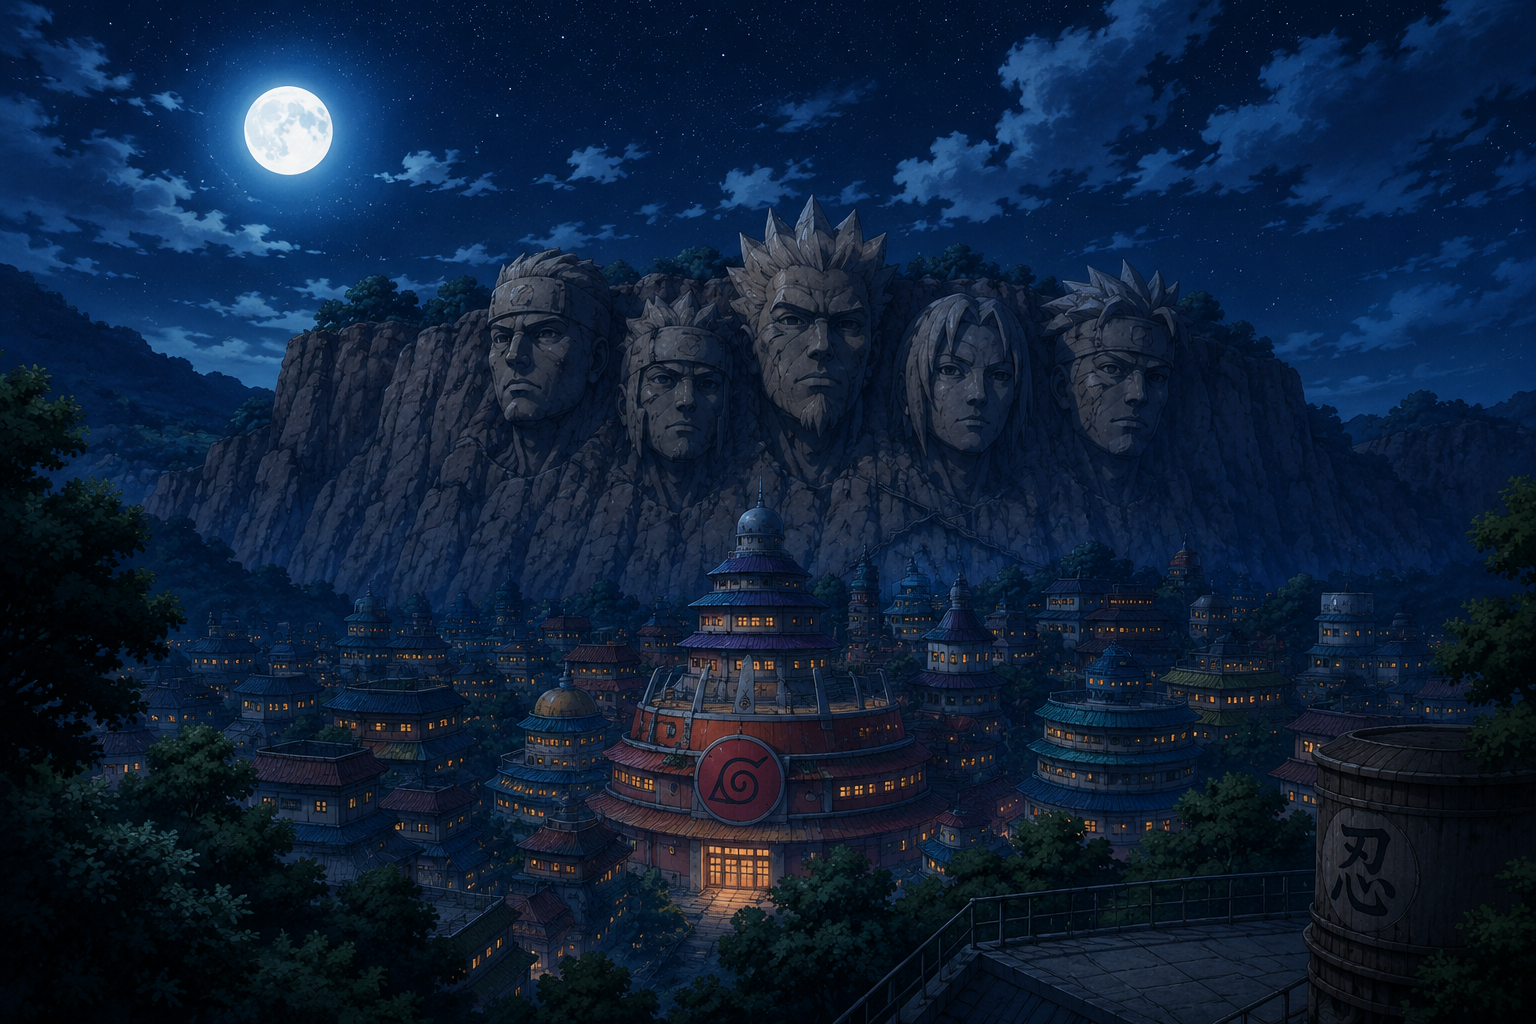
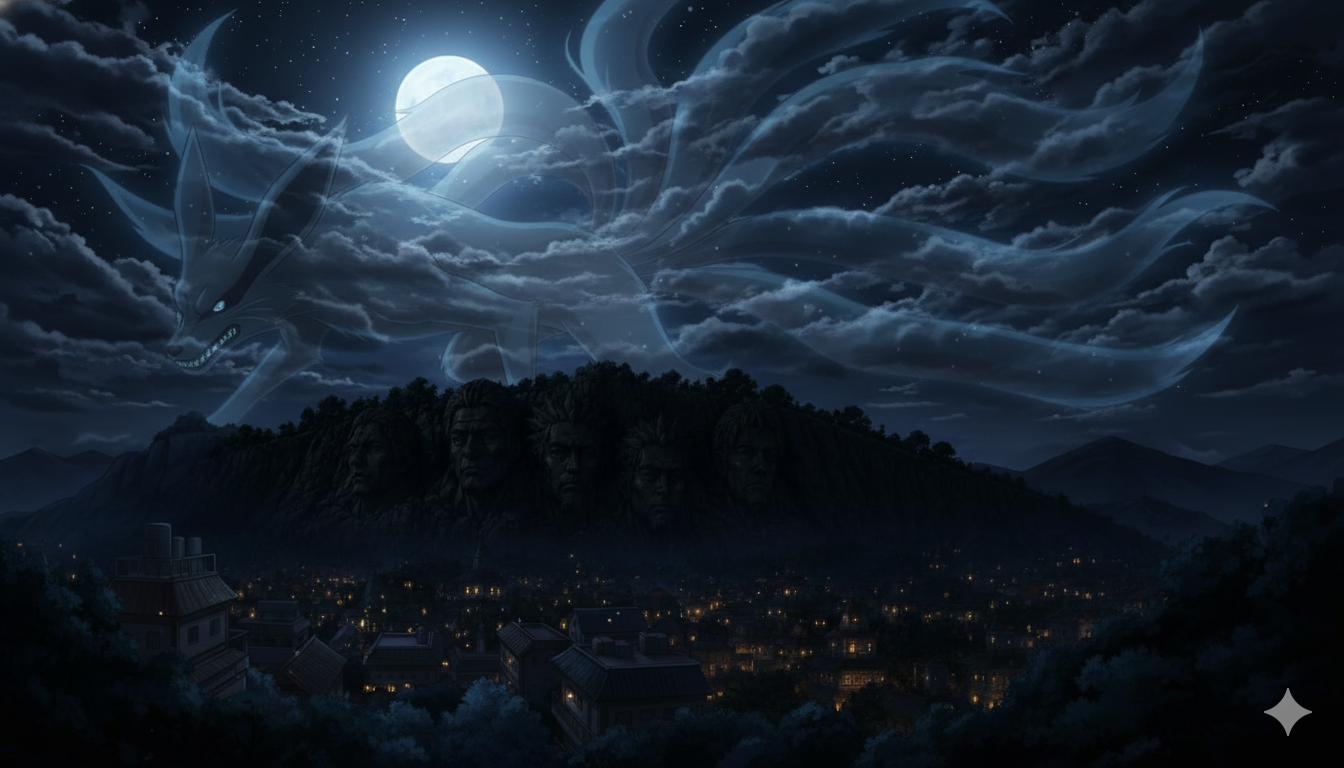
completed level-1 website

diff --git a/PRACTICE CSS HTML/style.css b/PRACTICE CSS HTML/style.css
@@ -1,3 +1,9 @@
+@font-face {
+    font-family: "Naruto Ninja";
+    src: url("./FONTS/NinjaNaruto-YOn4.ttf") format("truetype");
+}
+
+
 *{
     margin: 0;
     padding: 0;
@@ -40,13 +46,20 @@ nav{
 
 .menu a:hover{
     color: orange;
+    
+}
+
+.menu a::after{
+    position: relative;
+    
+
 }
 
 /*  HERO SECTION  */
 
 .hero{
     height: 100vh;
-    background-image: url(canvakonoha2.png);
+    background-image: url(perfect.png);
     background-size: cover;
     background-position: center;
 
@@ -61,17 +74,22 @@ nav{
 }
 
 .uzumaki{
-    color: rgb(121, 119, 119);
-    font-size: 60px;
-}
+    color: rgb(180, 179, 179);
+    font-size: 80px;
+    font-family: "Knewave", sans-serif;
+    padding-left: 80px;
+    }
 
 .hero-content h1{
-    font-size: 100px;
-    color: orange;
+    font-size: 200px;
+    color: rgb(255, 136, 0);
+    padding-left: 80px;
+    font-family: "Naruto Ninja" , sans-serif;
 }
 
 .hero-content h3{
     font-size: 30px;
+    padding-left: 80px;
     color: rgb(255, 217, 0);
     font-family: "Nunito", system-ui, -apple-system, BlinkMacSystemFont, 'Segoe UI', Roboto, Oxygen, Ubuntu, Cantarell, 'Open Sans', 'Helvetica Neue', sans-serif;
 }
@@ -80,24 +98,27 @@ nav{
     font-size: 20px;
     color: white;
     margin: 20px 0;
+    width: 500px;
+    padding-left: 80px;
     font-family: "Nunito", system-ui, -apple-system, BlinkMacSystemFont, 'Segoe UI', Roboto, Oxygen, Ubuntu, Cantarell, 'Open Sans', 'Helvetica Neue', sans-serif;
 }
 
 .hero-content button{
     padding: 12px 25px;
     border: none;
-    background: orange;
+    background: rgb(255, 136, 0);
     color:white;
     font-family: "Nunito", system-ui, -apple-system, BlinkMacSystemFont, 'Segoe UI', Roboto, Oxygen, Ubuntu, Cantarell, 'Open Sans', 'Helvetica Neue', sans-serif;
     font-size: 20px;
     cursor: pointer;
-
+    border-radius: 5px;
 }
 
 .hero-image img{
     
     
-    width: 500px;
+    width: 550px;
+    padding: 20px;
     
     
 }

diff --git a/PRACTICE CSS HTML/index.html b/PRACTICE CSS HTML/index.html
@@ -43,14 +43,14 @@
             <button>WATCH NOW</button>
             
         </div>
-        
+
         <div class="hero-image">
-
-            <img src="naruto4507.png" alt="naruto">
-
-
-
+            <img src="rasengan.png" alt="mainimg">
+            
         </div>
+        
+        
+        
 
     </section>
 </body>
